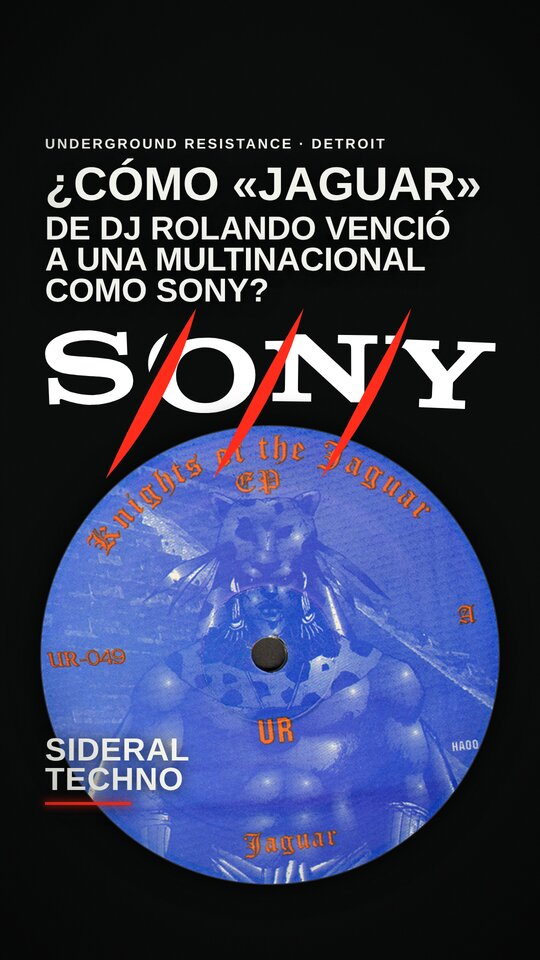
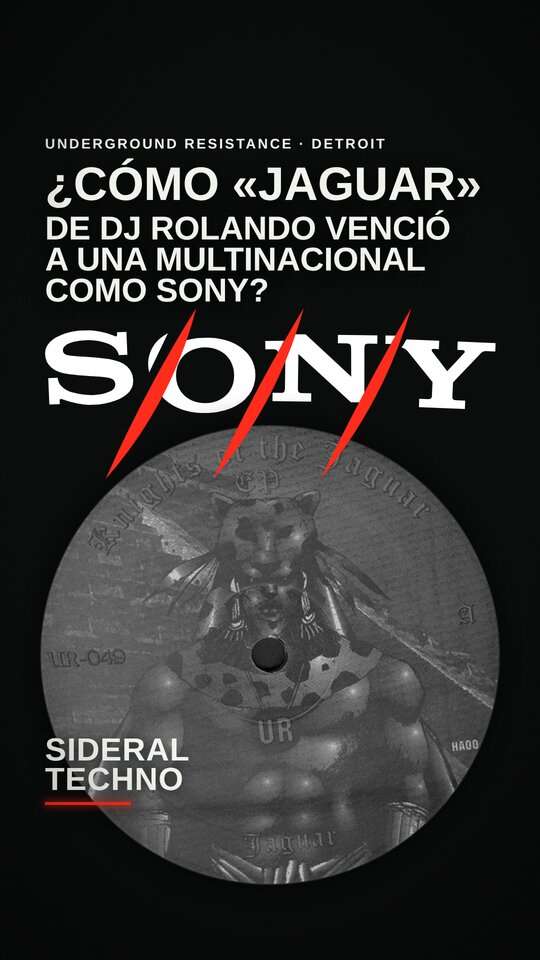
Jaguar (041): portada en blanco, negro y rojo (#42)
La galleta de UR-049 pasa a blanco y negro, como en las demás portadas.

diff --git a/content/videos/jaguar.md b/content/videos/jaguar.md
@@ -10,7 +10,7 @@ estado: publicado
 formato: ampliado
 duracion: 89
 publicado: 2026-11-19
-actualizado: 2026-11-19
+actualizado: 2026-11-27
 instagram: Df7PpoJTuyq
 tiktok: "7709883045624450327"
 lugar:
